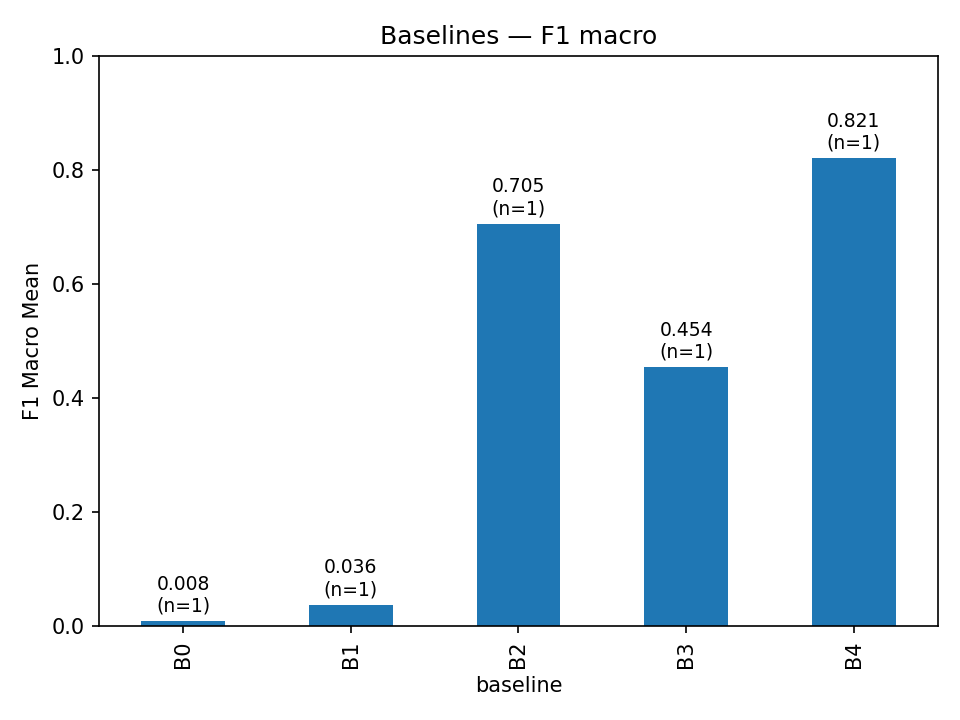
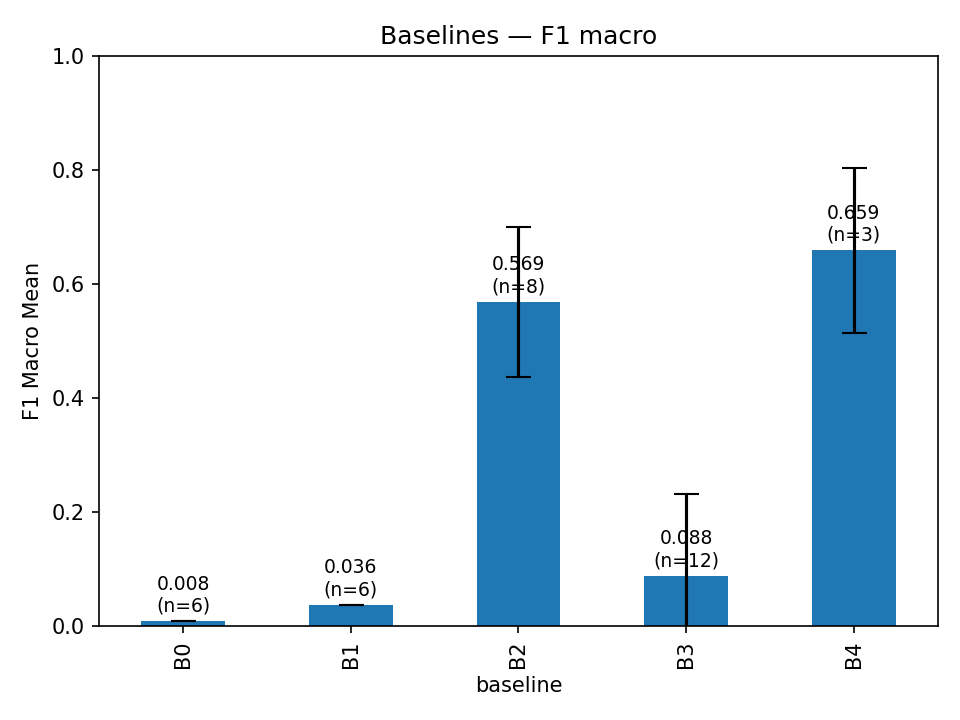
dictionnaire lisible

diff --git a/main/train_model.py b/main/train_model.py
@@ -373,7 +373,6 @@ def build_classifier(cfg: dict, seed: int):
 
 # === Construire les pipelines baselines sans rééchantillonnage ==================
 from typing import Optional
-import pandas as pd
 from joblib import Memory
 
 def get_cache(cfg: dict):
@@ -485,6 +484,7 @@ def run_baseline_and_report(kind: str, X_train, y_train, cfg: dict, outdir="resu
     splits_iter = list(cv.split(X_train, y_train))
     y_pred_cv = np.empty_like(y_train.values)
 
+
     pbar = tqdm(
     total=len(splits_iter),
     desc=f"{kind.upper()} CV",
@@ -518,13 +518,60 @@ def run_baseline_and_report(kind: str, X_train, y_train, cfg: dict, outdir="resu
     preds_df.to_csv(preds_path, index=True)
     print(f"> Prédictions sauvegardées: {preds_path}")
 
+    # ==== Harmoniser les types pour éviter toute surprise int/str ====
+    yt = y_train.astype(str)
+    yp = pd.Series(y_pred_cv, index=y_train.index).astype(str)
 
     # ==== Métriques & rapport ====
-    f1_macro = f1_score(y_train, y_pred_cv, average="macro")
-    f1_weighted = f1_score(y_train, y_pred_cv, average="weighted")
-    report = classification_report(y_train, y_pred_cv, digits=4)
+    from sklearn.metrics import f1_score, classification_report, precision_recall_fscore_support
+
+    f1_macro = f1_score(yt, yp, average="macro")
+    f1_weighted = f1_score(yt, yp, average="weighted")
+
+    # --- mapping lisible ---
+    labels_map_path = os.path.join("features", "labels_map.json")
+    lblmap = None
+    if os.path.exists(labels_map_path):
+        import json
+        with open(labels_map_path, "r", encoding="utf-8") as f:
+            lblmap = {str(k): v for k, v in json.load(f).items()}
+
+    # Construire un tableau de labels (dans l'ordre trié) et leurs noms lisibles
+    labels_vec = np.array(sorted(np.unique(yt)), dtype=str)
+    target_names = [lblmap.get(l, l) for l in labels_vec] if lblmap else None
+
+    # Rapports sklearn (id + lisible)
+    report = classification_report(yt, yp, labels=labels_vec, digits=4, zero_division=0)
+
+    report_readable = None
+    if target_names is not None:
+        report_readable = classification_report(
+            yt, yp, labels=labels_vec, target_names=target_names, digits=4, zero_division=0
+        )
+
+    # === Rapport par classe (CSV propre) ===
+    prec, rec, f1, supp = precision_recall_fscore_support(yt, yp, labels=labels_vec, zero_division=0)
+    per_class = pd.DataFrame({
+        "class_id": labels_vec,
+        "precision": prec,
+        "recall": rec,
+        "f1": f1,
+        "support": supp
+    }).sort_values("support", ascending=False)
 
     # Sauvegarder le résumé
+
+
+    use_cnn = bool(cfg.get("images", {}).get("cnn", {}).get("enabled", False))
+    notes = []
+    notes.append(f"dummy={kind in ['b0','b1']}")
+    notes.append(f"text_only={kind=='b2'}")
+    notes.append(f"image_only={kind=='b3'}")
+    notes.append(f"multimodal={kind=='b4'}")
+    if kind in ['b3','b4']:
+        notes.append(f"cnn={'true' if use_cnn else 'false'}")
+    notes_str = " | ".join(notes)
+
     summary_csv = os.path.join(outdir, "baseline_results_summary.csv")
     row = pd.DataFrame([{
         "baseline": kind.upper(),
@@ -532,9 +579,11 @@ def run_baseline_and_report(kind: str, X_train, y_train, cfg: dict, outdir="resu
         "f1_macro": f1_macro,
         "f1_weighted": f1_weighted,
         "train_infer_time_sec": round(dt, 3),
-        "notes": f"text_only={kind=='b2'} | image_only={kind=='b3'} | dummy={kind in ['b0','b1']}"
+        "notes": notes_str,
+        "timestamp": datetime.now().isoformat(timespec="seconds")
     }])
     row.to_csv(summary_csv, index=False, mode="a", header=not os.path.exists(summary_csv))
+
 
     # Sauvegarder le rapport détaillé
     with open(os.path.join(outdir, f"report_{kind}_cv.txt"), "w", encoding="utf-8") as f:
@@ -549,21 +598,13 @@ def run_baseline_and_report(kind: str, X_train, y_train, cfg: dict, outdir="resu
     print(f"> Résumé: {summary_csv}")
     print(f"> Rapport: {os.path.join(outdir, f'report_{kind}_cv.txt')}")
     print(f"[CV] terminé ({splits} folds)")
+    if report_readable is not None:
+        with open(os.path.join(outdir, f"report_{kind}_cv_readable.txt"), "w", encoding="utf-8") as f:
+            f.write(f"=== Baseline {kind.upper()} — CV (n_splits={splits}) ===\n")
+            f.write(f"F1-macro     : {f1_macro:.4f}\n")
+            f.write(f"F1-weighted  : {f1_weighted:.4f}\n\n")
+            f.write(report_readable)
 
-    
-    # === Rapport par classe (CSV propre) ===
-    from sklearn.metrics import precision_recall_fscore_support
-    labels = np.unique(y_train)
-    prec, rec, f1, supp = precision_recall_fscore_support(y_train, y_pred_cv, labels=labels, zero_division=0)
-    per_class = pd.DataFrame({
-        "class_id": labels.astype(str),
-        "precision": prec,
-        "recall": rec,
-        "f1": f1,
-        "support": supp
-    }).sort_values("support", ascending=False)
-    per_class_csv = os.path.join(outdir, f"report_{kind}_per_class.csv")
-    per_class.to_csv(per_class_csv, index=False)
 
     # === Version lisible (mapping) ===
     labels_map_path = os.path.join("features", "labels_map.json")
@@ -577,7 +618,7 @@ def run_baseline_and_report(kind: str, X_train, y_train, cfg: dict, outdir="resu
 
     # === Petit résumé Markdown (lisible) ===
     md_lines = [
-        f"# Baseline {kind.upper()} — CV ({splits} folds)",
+        f"# Baseline {kind.upper()} — CV ({splits} folds) — {datetime.now().strftime('%Y-%m-%d %H:%M:%S')}",
         f"- **F1-macro**: {f1_macro:.4f}",
         f"- **F1-weighted**: {f1_weighted:.4f}",
         "",

diff --git a/README.md b/README.md
@@ -667,11 +667,7 @@ python tools/plot_baseline_bars.py --order B0 B1 B2 B3 B4
 
 ##### 3) Matrice de confusion (top-K classes)
 
-python -m tools.plot_confusion_from_csv ^
-  --csv results/preds_b2.csv ^
-  --labels-map features/labels_map.json ^
-  --normalize true --topN 30 ^
-  --output results/figures/confusion_b2_top30.png
+python -m tools.plot_confusion_from_csv --csv results/preds_b4.csv --labels-map features/labels_map.json --normalize true --topN 40 --output results/figures/confusion_b4_top40.png
 
 ###### Texte seul (B2), 3 folds, normalisée, top 25 classes
 python tools/plot_confusion_matrix.py --config features/config.toml --baseline b2
